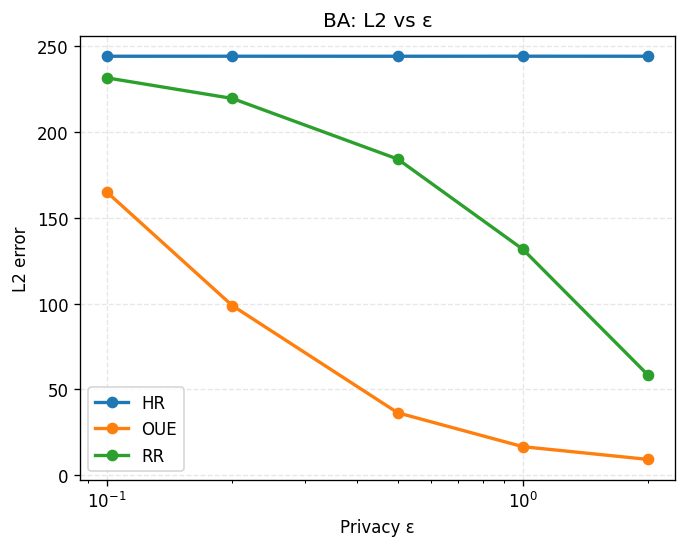
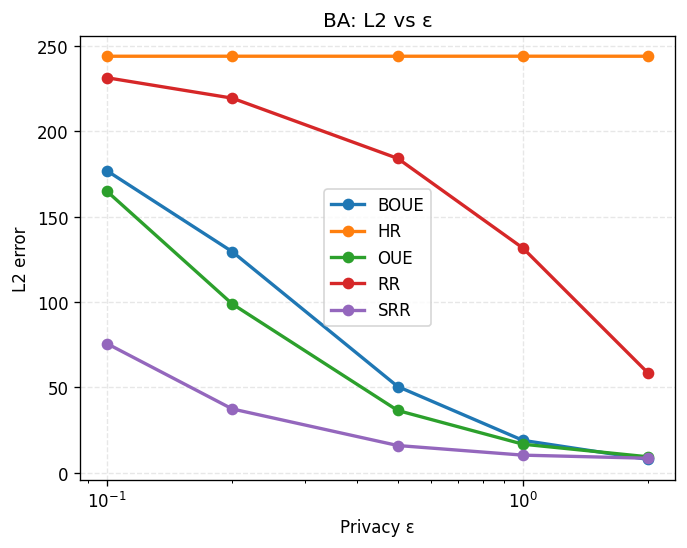
新增了SRR，BOUE算法，graph可视化啊

diff --git a/mechanisms.py b/mechanisms.py
@@ -76,6 +76,104 @@ def hr_aggregate(indices, signs, n, eps):
     prob = np.clip(prob, 0.0, 1.0)
     return np.tile(prob, (n, 1))               # (n,n) 概率矩阵
 
+
+def srr_encode(adj: np.ndarray, eps: float, rng: np.random.Generator, q: float = 0.1):
+    """
+    SRR 机制：先以概率 q 抽样，再对抽中的坐标使用 RR 编码
+    返回：位置数组 (u,v)，值数组 y
+    """
+    n = adj.shape[1]
+    sampled = rng.random(adj.shape) < q
+    reports = []
+    positions = []
+
+    p = np.exp(eps) / (np.exp(eps) + 1)
+    for u in range(adj.shape[0]):
+        for v in range(n):
+            if sampled[u, v]:
+                x = adj[u, v]
+                flip = rng.random() < (1 - p)
+                y = x if not flip else 1 - x
+                reports.append(y)
+                positions.append((u, v))
+    return np.array(positions), np.array(reports, dtype=np.uint8)
+
+def srr_decode(positions, reports, shape, eps: float):
+    """
+    将 SRR 上报重构为 (n,n) 概率矩阵
+    """
+    p = np.exp(eps) / (np.exp(eps) + 1)
+    q = 1 - p
+    A = np.zeros(shape, dtype=float)
+    C = np.zeros(shape, dtype=int)
+    for (u, v), y in zip(positions, reports):
+        A[u, v] += (y - q) / (p - q)
+        C[u, v] += 1
+    with np.errstate(divide='ignore', invalid='ignore'):
+        A /= C
+        A = np.nan_to_num(A, nan=0.0)
+    return A
+
+
+def boue_encode(adj: np.ndarray, eps: float, rng: np.random.Generator, B: int = 32):
+    """
+    分桶 OUE 编码：每个桶最多上传一条边，用 OUE 对桶内位置编码
+    返回：(n, B, m+1) 的三维编码张量
+    """
+    n = adj.shape[1]
+    m = int(np.ceil(n / B))
+    buckets = [[] for _ in range(B)]
+    for v in range(n):
+        h = v % B
+        buckets[h].append(v)
+
+    encoded = np.zeros((adj.shape[0], B, m + 1), dtype=np.uint8)
+    eps_per_bucket = eps
+    p = np.exp(eps_per_bucket) / (np.exp(eps_per_bucket) + m)
+    q = 1.0 / (np.exp(eps_per_bucket) + m)
+
+    for u in range(adj.shape[0]):
+        for b in range(B):
+            choices = [v for v in buckets[b] if adj[u, v] == 1]
+            if choices:
+                selected = rng.choice(choices)
+                idx = buckets[b].index(selected) + 1  # 1 ~ m
+            else:
+                idx = 0  # sentinel
+            vec = np.zeros(m + 1)
+            for i in range(m + 1):
+                vec[i] = rng.random() < (p if i == idx else q)
+            encoded[u, b] = vec
+    return encoded
+
+def boue_decode(encoded: np.ndarray, eps: float, n: int, B: int = 32):
+    """
+    解码 B-OUE，返回列概率向量 (n,)
+    """
+    m = int(np.ceil(n / B))
+    eps_per_bucket = eps
+    p = np.exp(eps_per_bucket) / (np.exp(eps_per_bucket) + m)
+    q = 1.0 / (np.exp(eps_per_bucket) + m)
+
+    est = np.zeros(n)
+    count = np.zeros(n)
+
+    for b in range(B):
+        start = b * m
+        for i in range(m):
+            v = start + i
+            if v >= n: continue
+            col = encoded[:, b, i + 1]
+            mean = col.mean()
+            est[v] += (mean - q) / (p - q)
+            count[v] += 1
+
+    with np.errstate(divide='ignore', invalid='ignore'):
+        est /= count
+        est = np.nan_to_num(est, nan=0.0)
+    return np.clip(est, 0.0, 1.0)
+
+
 # ------------------- tests -------------------
 if __name__ == "__main__":
     rng = np.random.default_rng(0)

diff --git a/simulation.py b/simulation.py
@@ -1,5 +1,5 @@
 import numpy as np, networkx as nx
-from mechanisms import rr_encode, rr_decode, oue_encode, oue_decode, hr_encode, hr_aggregate
+from mechanisms import rr_encode, rr_decode, oue_encode, oue_decode, hr_encode, hr_aggregate, srr_encode,srr_decode,boue_encode,boue_decode
 from evaluation import degree_error, clustering_error, assortativity_error
 from evaluation import avg_clustering, edge_precision_recall
 
@@ -20,12 +20,35 @@ def simulate(graph, mechanism: str, eps: float, seed: int = 0):
 
     elif mechanism == "HR":
         idxs, signs = hr_encode(A, eps, rng)
-        col_prob = hr_aggregate(idxs, signs, n, eps)[0]  # any row, all the same
+        col_prob = hr_aggregate(idxs, signs, n, eps)[0]
+
+    elif mechanism == "SRR":
+        pos, rep = srr_encode(A, eps, rng)
+        est_mat = srr_decode(pos, rep, A.shape, eps)
+
+    elif mechanism == "BOUE":
+        rep = boue_encode(A, eps, rng)
+        col_prob = boue_decode(rep, eps, A.shape[1])
 
     else:
         raise ValueError(f"unknown mechanism {mechanism}")
 
-    est_mat = np.tile(col_prob, (n, 1))  # simplified decode (row = col prob)
+    # ✅ 如果不是 SRR，才需要生成 est_mat from col_prob
+    if mechanism not in ["SRR"]:
+        est_mat = np.tile(col_prob, (n, 1))
+
+    if mechanism == "RR" or mechanism == "OUE":
+        bits = reports.size
+    elif mechanism == "HR":
+        bits = len(idxs) * (int(np.log2(n)) + 1)
+    elif mechanism == "SRR":
+        bits = len(rep) * (int(np.log2(n ** 2)) + 1)  # 位置 + 比特
+    elif mechanism == "BOUE":
+        bits = rep.size  # rep 是三维张量
+    else:
+        bits = -1  # fallback
+
+    #est_mat = np.tile(col_prob, (n, 1))  # simplified decode (row = col prob)
     true_deg = A.sum(axis=1)
     est_deg = est_mat.sum(axis=1)
 
@@ -40,6 +63,7 @@ def simulate(graph, mechanism: str, eps: float, seed: int = 0):
         "clust": clust_err,
         "prec": prec,
         "rec": rec,
-        "bits": reports.size if mechanism != "HR" else len(idxs) * (np.log2(n).astype(int) + 1),
+        #"bits": reports.size if mechanism != "HR" else len(idxs) * (np.log2(n).astype(int) + 1),
+        "bits": bits,
         "n_nodes": n
     }

diff --git a/visualize_data.py b/visualize_data.py
@@ -1,0 +1,31 @@
+import networkx as nx
+import matplotlib.pyplot as plt
+
+def plot_graph(G, title, pos=None):
+    plt.figure(figsize=(4.5, 4.5))
+    pos = pos or nx.spring_layout(G, seed=42)
+    nx.draw(G, pos, node_size=30, edge_color="gray", node_color="skyblue", with_labels=False)
+    plt.title(title)
+    plt.axis("off")
+
+# 生成图
+n = 100  # 节点数量，可以设为 100 左右看结构更明显
+
+# ER 图
+p = 0.05
+G_er = nx.erdos_renyi_graph(n, p)
+plot_graph(G_er, f"ER Graph (p={p})")
+
+# BA 图
+m = 3
+G_ba = nx.barabasi_albert_graph(n, m)
+plot_graph(G_ba, f"BA Graph (m={m})")
+
+# WS 图
+k = 4  # 每个节点初始连接 k 个邻居
+rewire_p = 0.2
+G_ws = nx.watts_strogatz_graph(n, k, rewire_p)
+plot_graph(G_ws, f"WS Graph (k={k}, p={rewire_p})")
+
+plt.tight_layout()
+plt.show()

diff --git a/experiments.py b/experiments.py
@@ -5,7 +5,9 @@ from simulation import simulate
 # -------- 实验配置 --------
 EPS_LIST   = [0.1, 0.2, 0.5, 1, 2]
 #EPS_LIST   = [0.1, 1]
-MECH_LIST  = ["RR", "OUE", "HR"]
+#MECH_LIST  = ["RR", "OUE", "HR"]
+MECH_LIST = ["RR", "OUE", "HR", "SRR", "BOUE"]
+
 SEED       = 42
 N_SYN      = 500               # 合成图节点数
 OUT_CSV    = "results/metrics.csv"
